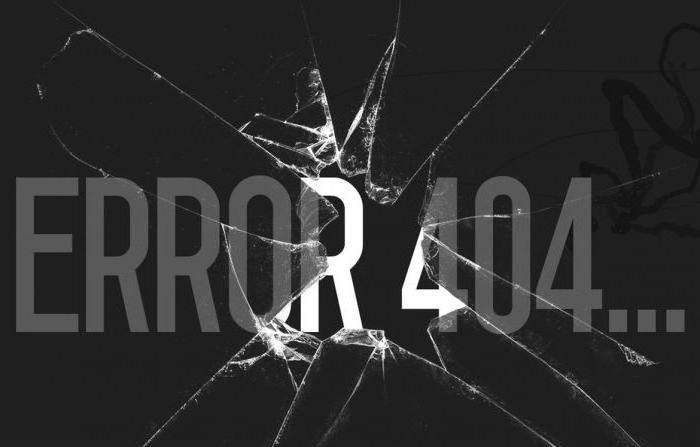
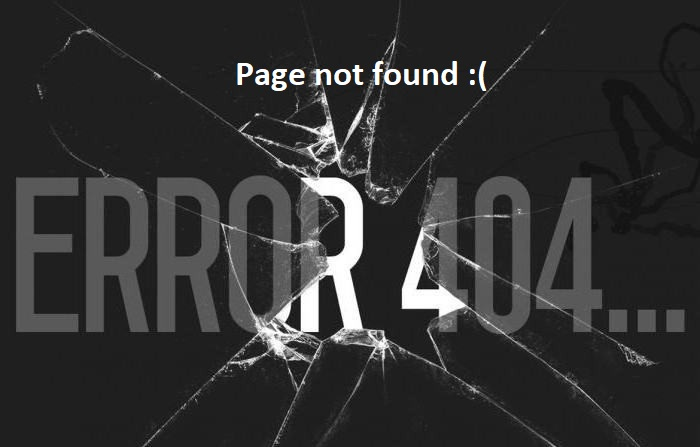
Adds @media queries to the NotFoundView

Changed region(s): [[0.33, 0.1163, 0.72, 0.2036]]

diff --git a/src/App.js b/src/App.js
@@ -206,7 +206,7 @@ export default function App() {
                     path="*"
                     element={
                       <PrivateRoute redirectTo="/signin">
-                        <NotFoundView message="Page not found :(" />
+                        <NotFoundView message="Check the correctness of the entered in the address bar" />
                       </PrivateRoute>
                     }
                   />

diff --git a/src/pages/NotFoundView/NotFoundView.module.css b/src/pages/NotFoundView/NotFoundView.module.css
@@ -13,8 +13,8 @@
 }
 
 .text {
-  margin: 1vw;
-  font-weight: 500;
-  font-size: 2.8vw;
+  margin: 2vw;
+  font-weight: 400;
+  font-size: 2.5vw;
   color: #ffffff;
 }
